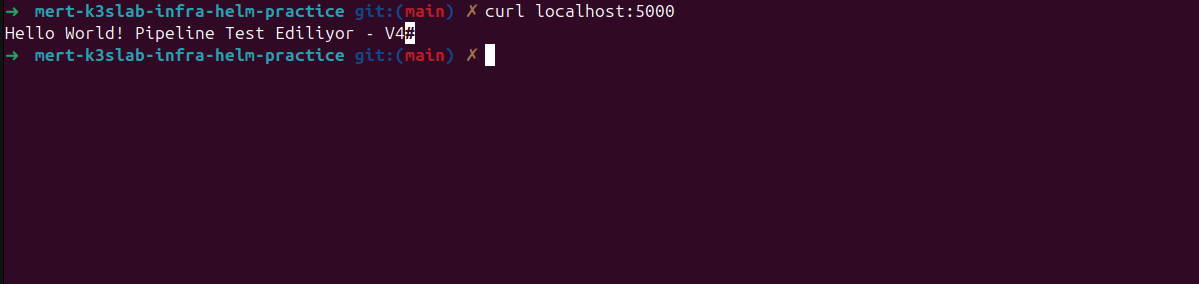
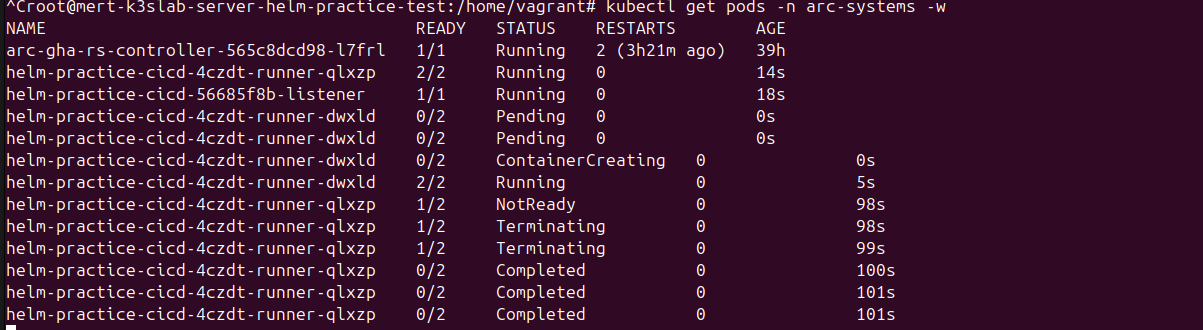
add: readme add

diff --git a/src/hello-world-app/app.py b/src/hello-world-app/app.py
@@ -10,7 +10,7 @@ logger = logging.getLogger(__name__)
 @app.route("/")
 def hello():
     logger.info("Hello isteği başarıyla karşılandı.")
-    return "Hello World! Pipeline Test Ediliyor - V5"
+    return "Hello World! Pipeline Test Ediliyor - V6"
 
 if __name__ == "__main__":
     app.run(host="0.0.0.0", port=5000)

diff --git a/README.md b/README.md
@@ -374,6 +374,8 @@ Burada yazan değeri v3 den v4 e değiştiriyorum.
 Daha sonrasında pipelinem harbora pushlamak üzere çalışıyor yeni versiyon tagı ile , pipelinem bittiği zaman harbora bakıyorum. Saat 3:13 itibariyle yeni imagem oluşmuş durumda.
 ![alt text](assets/image-45.png)
 
+![alt text](assets/image-46.png)
+
 ![alt text](assets/image-43.png)
 
 ArgoCD ye gelip sync yapıyorum yeni imagem ile yeni podlarımın oluşması için , yeni podlarım oluştuktan sonrasında ise curl atarak yeni versiyona geçtiğimi doğruluyorum ve CI/CD pipelinemiz başarıyla çalışmış oluyor Harbor image registrysi ile beraber.
